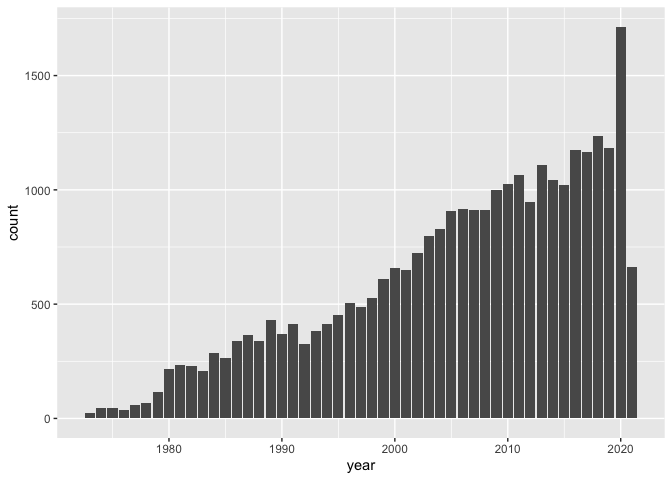
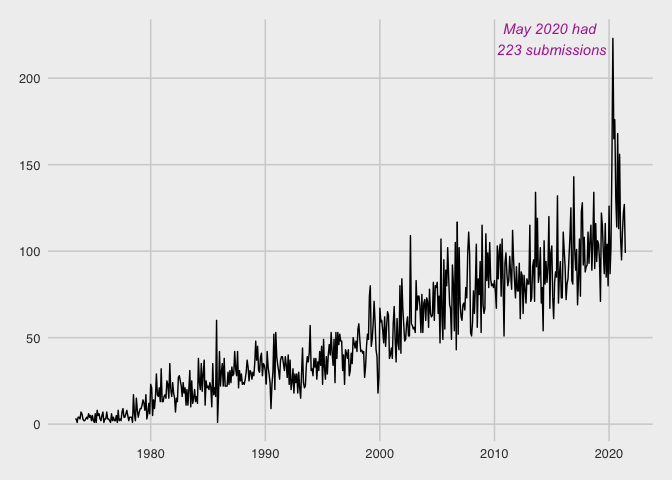
Updated NBER post

diff --git a/2021-10-01-NBER/nber-code.md b/2021-10-01-NBER/nber-code.md
@@ -1,110 +1,107 @@
-``` r
-head(authors)
-```
+## Visualization of monthly NBER paper submission
 
-    ## # A tibble: 6 x 4
-    ##   author  name             user_nber        user_repec
-    ##   <chr>   <chr>            <chr>            <chr>     
-    ## 1 w0001.1 Finis Welch      finis_welch      <NA>      
-    ## 2 w0002.1 Barry R Chiswick barry_chiswick   pch425    
-    ## 3 w0003.1 Swarnjit S Arora swarnjit_arora   <NA>      
-    ## 4 w0004.1 Lee A Lillard    <NA>             pli669    
-    ## 5 w0005.1 James P Smith    james_smith      psm28     
-    ## 6 w0006.1 Victor Zarnowitz victor_zarnowitz <NA>
-
-``` r
-tail(authors)
-```
-
-    ## # A tibble: 6 x 4
-    ##   author  name                    user_nber          user_repec
-    ##   <chr>   <chr>                   <chr>              <chr>     
-    ## 1 h0122.1 Carolyn M Moehling      carolyn_moehling   pmo729    
-    ## 2 h0127.2 Zeynep Kocabiyik Hansen zeynep_hansen      <NA>      
-    ## 3 h0131.2 Ruth Dupre              <NA>               <NA>      
-    ## 4 h0131.3 Tomas Nonnenmacher      tomas_nonnenmacher <NA>      
-    ## 5 h0132.2 Leonard Caruana         <NA>               <NA>      
-    ## 6 h0137.1 Howard Bodenhorn        howard_bodenhorn   <NA>
-
-Use `papers` data set to create dataviz
-
-``` r
-papers %>% 
-  ggplot(aes(x = year)) +
-  geom_bar()
-```
-
-![](nber-code_files/figure-markdown_github/unnamed-chunk-3-1.png)
-
-``` r
-year_count <- papers %>% 
-  count(year)
-```
-
-``` r
-year_count
-```
-
-    ## # A tibble: 49 x 2
-    ##     year     n
-    ##  * <dbl> <int>
-    ##  1  1973    25
-    ##  2  1974    45
-    ##  3  1975    47
-    ##  4  1976    38
-    ##  5  1977    59
-    ##  6  1978    68
-    ##  7  1979   114
-    ##  8  1980   216
-    ##  9  1981   232
-    ## 10  1982   228
-    ## # … with 39 more rows
-
-``` r
-papers %>% 
-  count(year) %>% 
-  ggplot(aes(x = year, y = n)) +
-  geom_line()
-```
-
-![](nber-code_files/figure-markdown_github/unnamed-chunk-6-1.png)
+Anecdotally I had heard that many economists were submitting tons of
+papers to NBER during the Covid-19 pandemic. However, it was not clear
+to me whether this was a trend or a flash in the pan. The following
+visualization show that the spike in 2020 was primarily in one month.
 
 ``` r
 papers %>% 
   count(year, month) %>% 
   mutate(date = as.Date(paste(year, month, "01", sep = "-"))) %>% 
   ggplot(aes(x = date, y = n)) +
-  geom_line()
+  geom_line() 
+```
+
+![](nber-code_files/figure-markdown_github/unnamed-chunk-1-1.png)
+
+Which month saw the spike? This table shows that it was in May 2020. Top
+6 months with highest submissions are in 2020.
+
+``` r
+papers %>% 
+  count(year, month, sort = TRUE) %>% 
+  head(10)
+```
+
+    ## # A tibble: 10 x 3
+    ##     year month     n
+    ##    <dbl> <dbl> <int>
+    ##  1  2020     5   223
+    ##  2  2020     7   176
+    ##  3  2020    10   168
+    ##  4  2020     6   165
+    ##  5  2020    12   156
+    ##  6  2020     4   152
+    ##  7  2016    12   143
+    ##  8  2013     8   134
+    ##  9  2018     9   134
+    ## 10  2015     7   132
+
+Let’s annotate the earlier plot with the spike in may 2020.
+
+``` r
+papers %>% 
+  count(year, month) %>% 
+  mutate(date = as.Date(paste(year, month, "01", sep = "-"))) %>% 
+  ggplot(aes(x = date, y = n)) +
+  geom_line() +
+  annotate(geom = "text", x = as.Date("2015-01-01"), y = 223, 
+           label = "May 2020 had \n223 submissions", color = "#b131a2", fontface = "italic")
+```
+
+![](nber-code_files/figure-markdown_github/unnamed-chunk-3-1.png)
+
+## Sub-areas of Economics submitting in May 2020
+
+Next, let’s visualize the top subcategories submitting in May 2020. I
+expected these to be from Heath Care and Heath Economics. But is that
+the case?
+
+``` r
+top_10_may_2020 <- papers %>% 
+  left_join(paper_programs, by = "paper") %>% 
+  left_join(programs, by = "program") %>% 
+  filter(year == 2020 & month == 5) %>% 
+  count(program_desc, sort = TRUE) %>% 
+  head(10)
+```
+
+``` r
+top_10_may_2020
+```
+
+    ## # A tibble: 10 x 2
+    ##    program_desc                                       n
+    ##    <chr>                                          <int>
+    ##  1 Public Economics                                  62
+    ##  2 Health Economics                                  58
+    ##  3 Economic Fluctuations and Growth                  56
+    ##  4 Labor Studies                                     47
+    ##  5 Corporate Finance                                 34
+    ##  6 Health Care                                       30
+    ##  7 Asset Pricing                                     29
+    ##  8 Development Economics                             25
+    ##  9 International Finance and Macroeconomics          24
+    ## 10 Productivity, Innovation, and Entrepreneurship    23
+
+``` r
+top_10_may_2020 %>% 
+  ggplot(aes(x = reorder(program_desc, n), y = n )) +
+  geom_col() +
+  coord_flip()
+```
+
+![](nber-code_files/figure-markdown_github/unnamed-chunk-6-1.png)
+
+Let’s fill the first 3 bars with a different color.
+
+``` r
+top_10_may_2020 %>% 
+  mutate(top3 = ifelse(n >= 56, 1, 0)) %>% 
+  ggplot(aes(x = reorder(program_desc, n), y = n )) +
+  geom_col(aes(fill = top3), show.legend = FALSE) +
+  coord_flip()
 ```
 
 ![](nber-code_files/figure-markdown_github/unnamed-chunk-7-1.png)
-
-``` r
-papers %>% 
-  count(month)
-```
-
-    ## # A tibble: 12 x 2
-    ##    month     n
-    ##  * <dbl> <int>
-    ##  1     1  2465
-    ##  2     2  2259
-    ##  3     3  2431
-    ##  4     4  2277
-    ##  5     5  2654
-    ##  6     6  2626
-    ##  7     7  2325
-    ##  8     8  2539
-    ##  9     9  2532
-    ## 10    10  2598
-    ## 11    11  2185
-    ## 12    12  2543
-
-``` r
-papers %>% 
-  count(month) %>% 
-  ggplot(aes(x = month, y = n)) +
-  geom_bar(stat = "identity")
-```
-
-![](nber-code_files/figure-markdown_github/unnamed-chunk-9-1.png)
